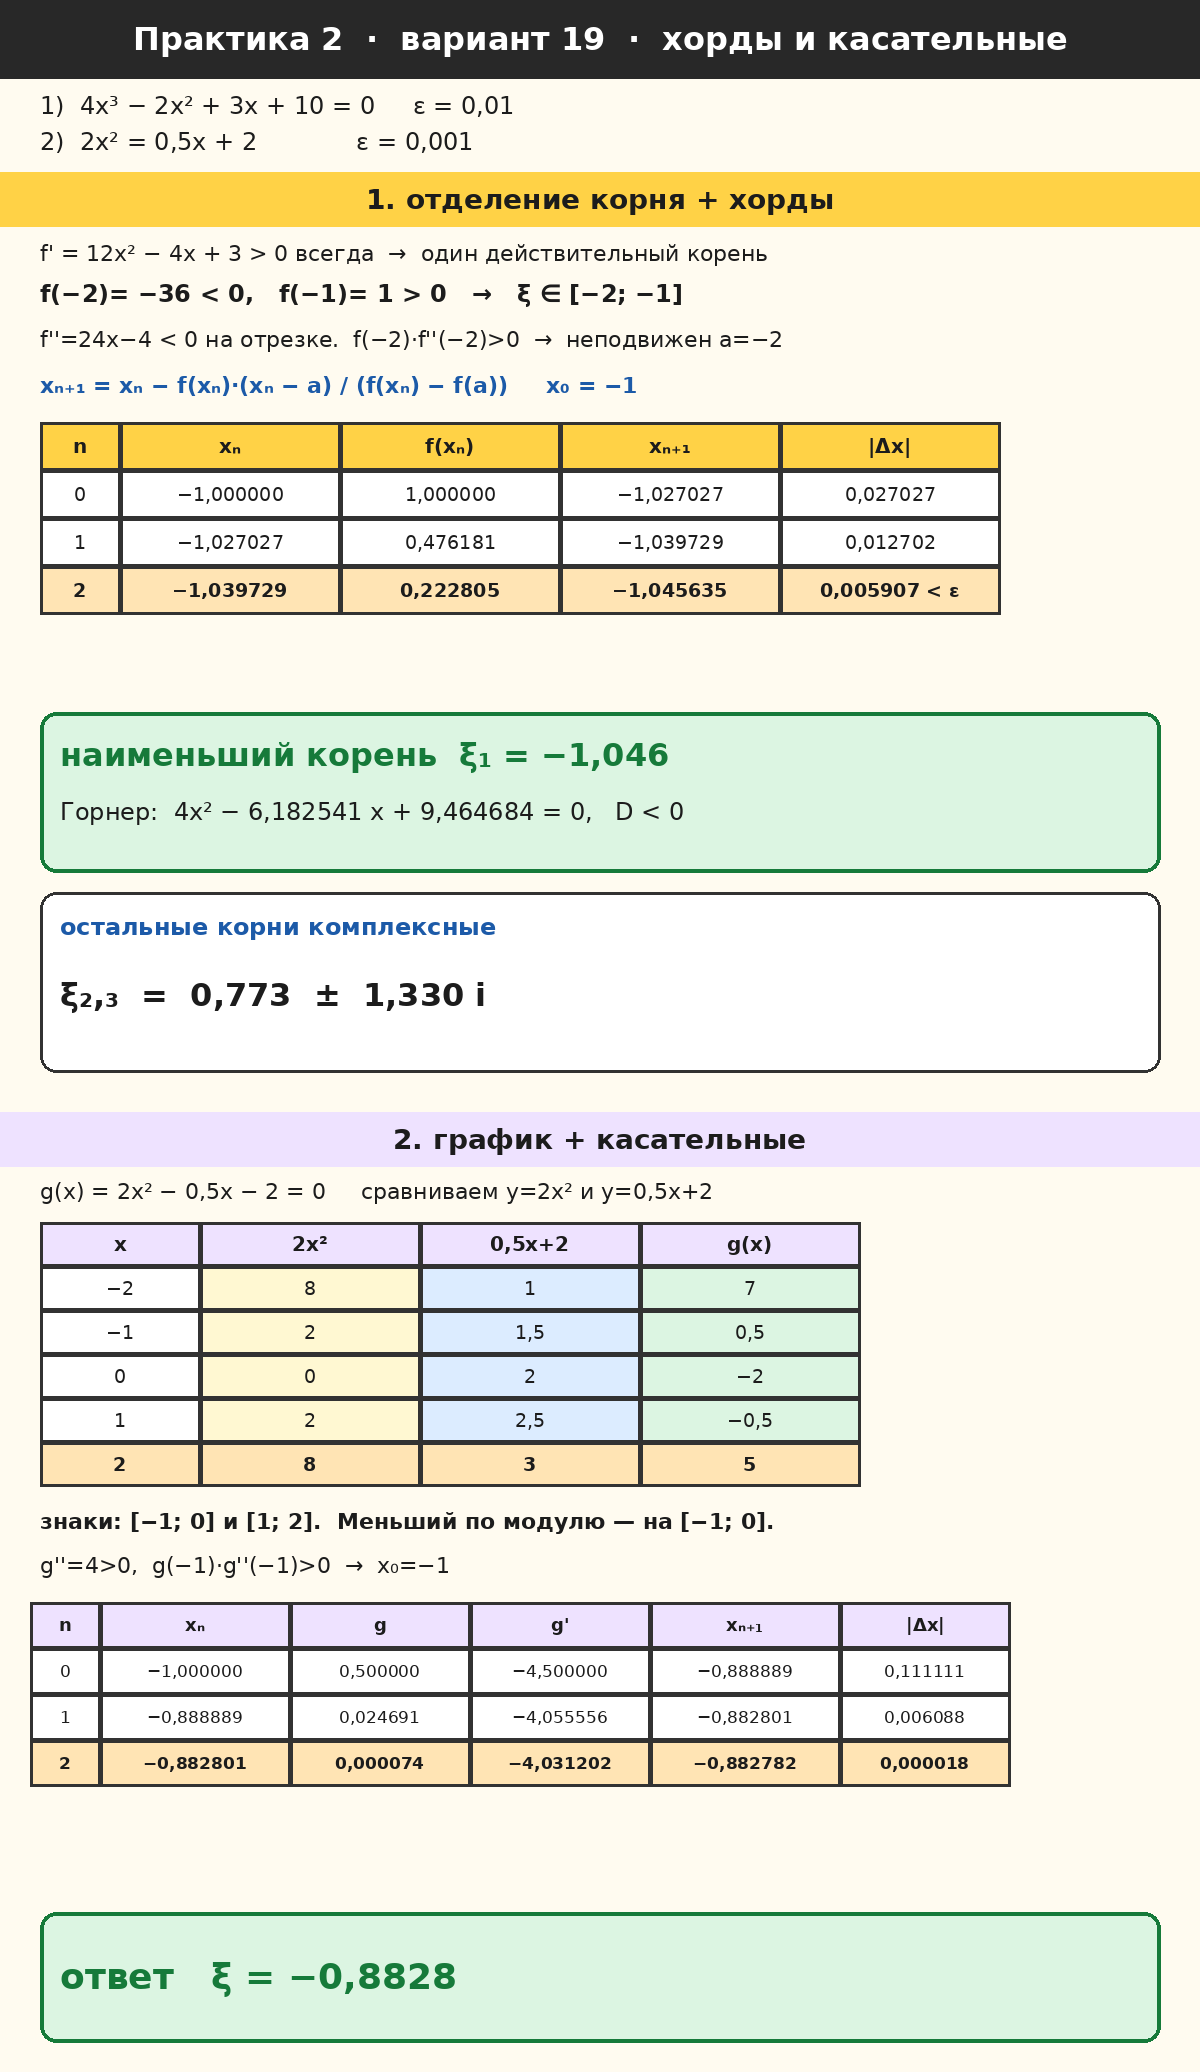
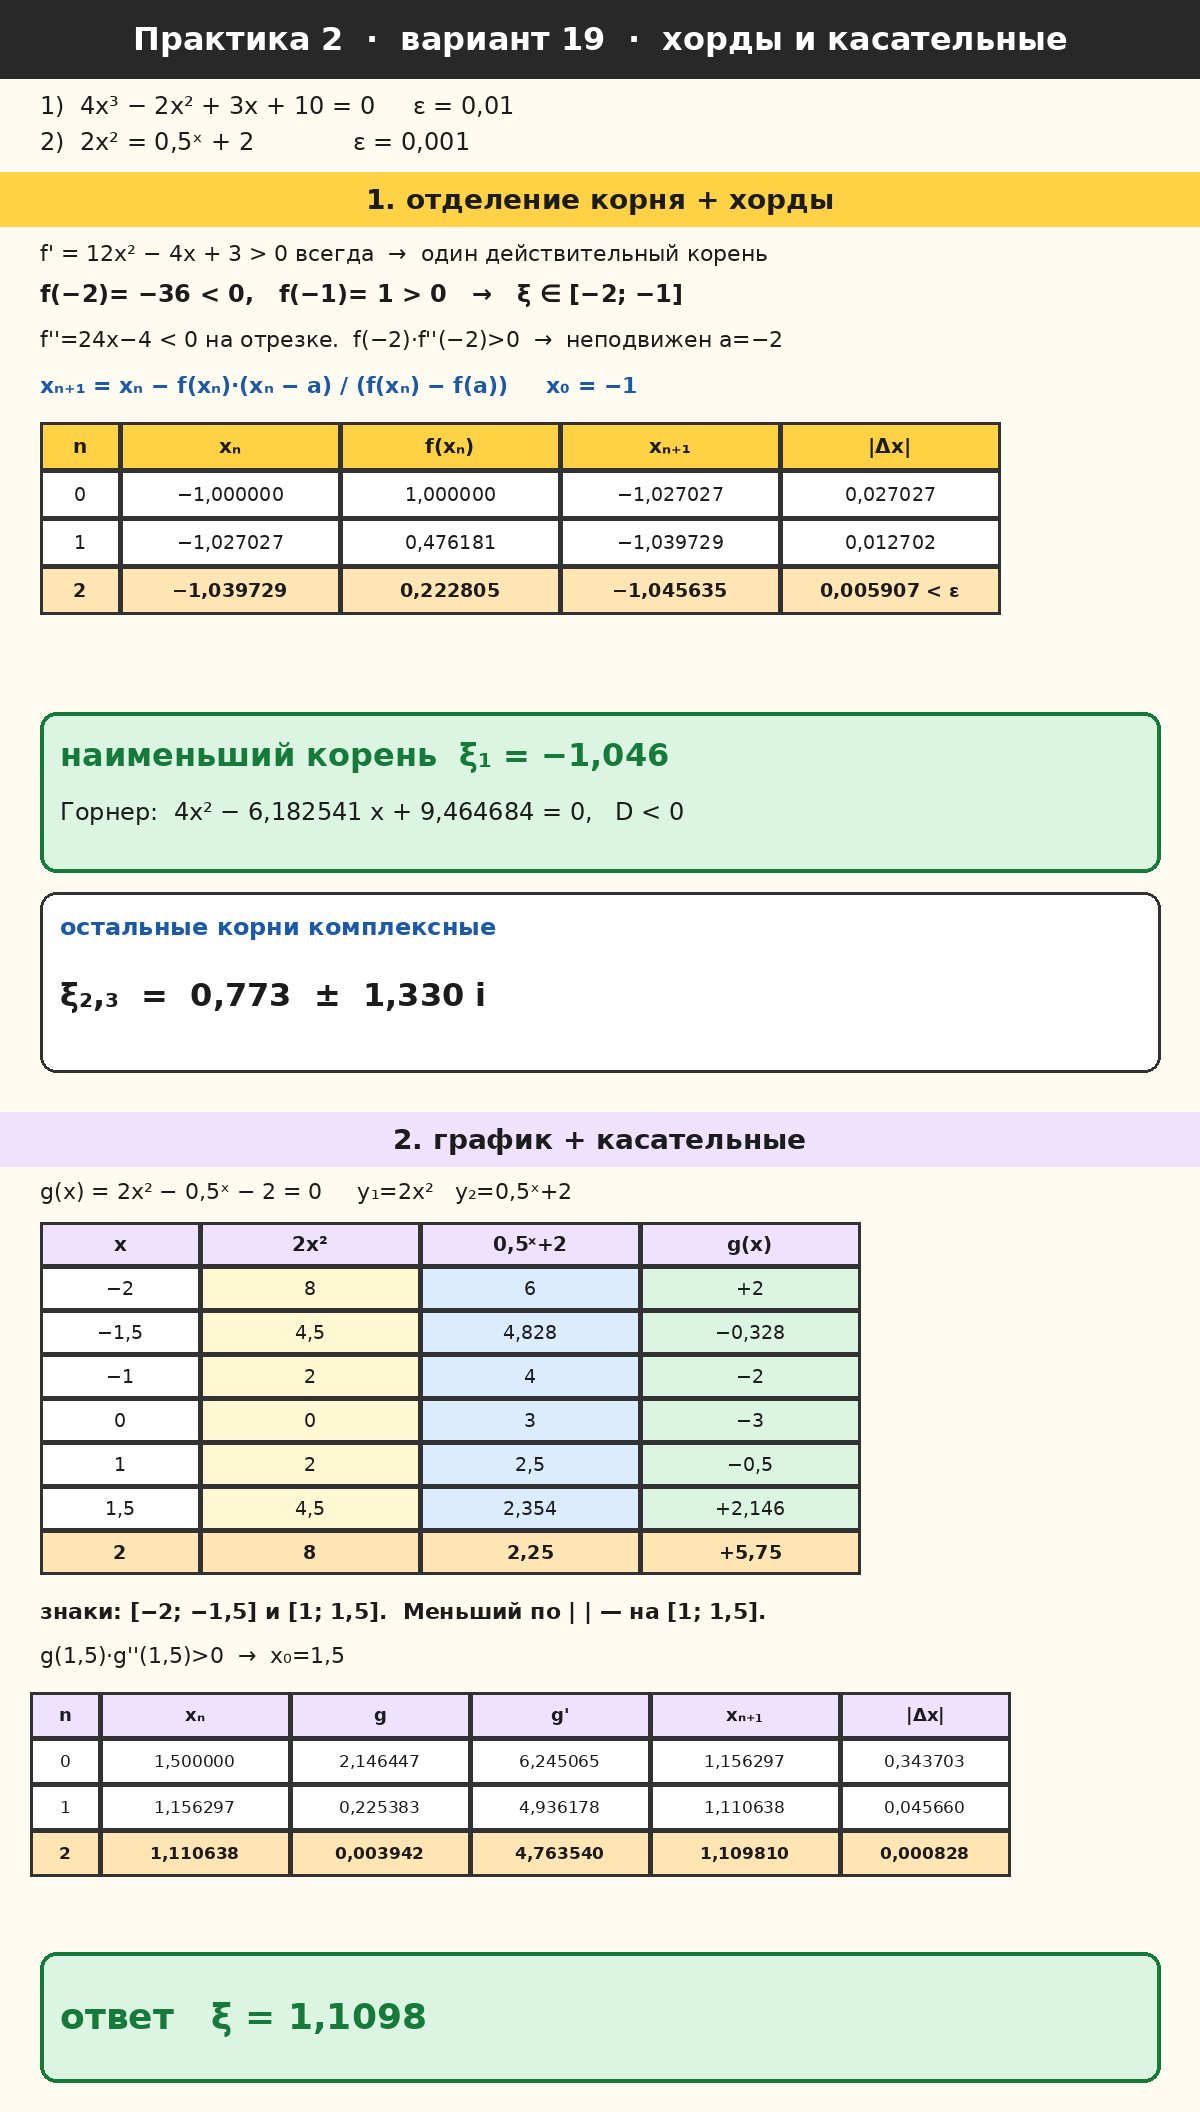
Fix practical 2 task 2: equation is 2x² = 0.5^x + 2.
Isolate on [1; 1.5], Newton from x0=1.5, ξ=1.1098.

Changed region(s): [[0.0, 0.3398, 1.0, 0.8958], [0.0308, 0.0309, 0.8325, 0.3089], [0.2467, 0.9266, 0.37, 0.9884]]

diff --git a/ucheba/praktiki_v19/render_pr2_tetrad.py b/ucheba/praktiki_v19/render_pr2_tetrad.py
@@ -86,21 +86,27 @@ def table(d, row, col_w, headers, rows, fsize=18, head=YELLOW):
 
 
 def graph_task2(path):
-    xs = np.linspace(-2.3, 2.5, 400)
+    xs = np.linspace(-2.3, 2.5, 500)
     fig, ax = plt.subplots(figsize=(5.6, 3.6), dpi=130)
     fig.patch.set_facecolor("#fcfcf4")
     ax.set_facecolor("#fffef8")
     ax.axhline(0, color="#222", lw=1.1)
     ax.axvline(0, color="#222", lw=1.0)
     ax.plot(xs, 2 * xs**2, color="#1c5aa8", lw=2.3, label="y = 2x²")
-    ax.plot(xs, 0.5 * xs + 2, color="#c42828", lw=2.3, label="y = 0,5x+2")
-    ax.plot([-0.8828], [1.5586], "o", color="#167a3a", ms=8)
-    ax.plot([1.1328], [2.5664], "o", color="#777", ms=6)
-    ax.annotate("ξ", xy=(-0.8828, 1.5586), xytext=(-2.05, 4.8),
-                fontproperties=fpb, fontsize=12, color="#167a3a",
-                arrowprops=dict(arrowstyle="->", color="#167a3a"))
+    ax.plot(xs, 0.5**xs + 2, color="#c42828", lw=2.3, label="y = 0,5ˣ + 2")
+    ax.plot([1.1098], [2.4633], "o", color="#167a3a", ms=8)
+    ax.plot([-1.5793], [4.988], "o", color="#777", ms=6)
+    ax.annotate(
+        "ξ",
+        xy=(1.1098, 2.4633),
+        xytext=(1.55, 6.2),
+        fontproperties=fpb,
+        fontsize=12,
+        color="#167a3a",
+        arrowprops=dict(arrowstyle="->", color="#167a3a"),
+    )
     ax.set_xlim(-2.3, 2.5)
-    ax.set_ylim(-0.3, 8)
+    ax.set_ylim(-0.2, 9)
     ax.grid(True, ls="--", alpha=0.35)
     ax.legend(prop=fp, loc="upper right", fontsize=9)
     ax.set_title("касательные", fontproperties=fp, fontsize=11)
@@ -203,48 +209,53 @@ def sheet_z2():
     gim = Image.open(gpath).convert("RGB")
     gim = gim.resize((480, int(480 * gim.height / gim.width)), Image.Resampling.LANCZOS)
 
-    im, d = notebook(40)
+    im, d = notebook(48)
     write(d, 1, "Задание 2:", 24, BLUE, True)
     write(d, 2, "Отделить графически корни. Уточнить наименьший по модулю", 20)
     write(d, 3, "корень уравнения методом касательных с точностью ε.", 20)
-    write(d, 4, "2x² = 0,5x + 2          ε = 0,001", 24, bold=True)
+    write(d, 4, "2x² = 0,5ˣ + 2          ε = 0,001", 24, bold=True)
+    write(d, 5, "это  0,5 в степени x,   не  0,5·x", 20, BLUE)
 
-    write(d, 6, "g(x) = 2x² − 0,5x − 2 = 0", 22, bold=True)
-    write(d, 7, "y₁ = 2x²          y₂ = 0,5x + 2", 22)
-    write(d, 8, "g'(x) = 4x − 0,5          g''(x) = 4", 22)
+    write(d, 7, "g(x) = 2x² − 0,5ˣ − 2 = 0", 22, bold=True)
+    write(d, 8, "y₁ = 2x²          y₂ = 0,5ˣ + 2", 22)
+    write(d, 9, "ln 0,5 = −ln 2 = −0,693147", 20)
+    write(d, 10, "g'(x) = 4x − 0,5ˣ·ln 0,5  =  4x + 0,693147·0,5ˣ", 20)
+    write(d, 11, "g''(x) = 4 − (ln 2)²·0,5ˣ  =  4 − 0,480453·0,5ˣ", 20)
 
-    write(d, 10, "точки для графика", 20, BLUE, True)
+    write(d, 13, "точки для графика", 20, BLUE, True)
     table(
-        d, 11,
-        [120, 140, 160, 140],
-        ["x", "2x²", "0,5x+2", "g(x)"],
+        d, 14,
+        [110, 130, 160, 140],
+        ["x", "2x²", "0,5ˣ+2", "g(x)"],
         [
-            ["−2", "8", "1", "7"],
-            ["−1", "2", "1,5", "0,5"],
-            ["0", "0", "2", "−2"],
+            ["−2", "8", "6", "+2"],
+            ["−1,5", "4,5", "4,828", "−0,328"],
+            ["−1", "2", "4", "−2"],
+            ["0", "0", "3", "−3"],
             ["1", "2", "2,5", "−0,5"],
-            ["2", "8", "3", "5"],
+            ["1,5", "4,5", "2,354", "+2,146"],
+            ["2", "8", "2,25", "+5,75"],
+        ],
+        fsize=16,
+    )
+    im.paste(gim, (680, 12 * STEP))
+    write(d, 23, "ξ ∈ [−2; −1,5]   и   ξ ∈ [1; 1,5]", 21)
+    write(d, 24, "меньший по | |  на  [1; 1,5]", 22, GREEN, True)
+
+    write(d, 26, "таблица на концах [1; 1,5]", 21, BLUE, True)
+    r = table(
+        d, 27,
+        [180, 220, 220],
+        ["", "a = 1", "b = 1,5"],
+        [
+            ["g", "−0,500000", "+2,146447"],
+            ["g'", "+4,346574", "+6,245065"],
+            ["g''", "+3,759773", "+3,830134"],
+            ["g · g''", "−  < 0", "+  > 0"],
         ],
         fsize=17,
     )
-    im.paste(gim, (670, 9 * STEP))
-    write(d, 18, "ξ ∈ [−1; 0]   и   ξ ∈ [1; 2]", 21)
-    write(d, 19, "меньший по | |  на  [−1; 0]", 22, GREEN, True)
-
-    write(d, 21, "таблица на концах [−1; 0]", 21, BLUE, True)
-    r = table(
-        d, 22,
-        [180, 220, 220],
-        ["", "a = −1", "b = 0"],
-        [
-            ["g", "+0,5", "−2"],
-            ["g'", "−4,5", "−0,5"],
-            ["g''", "+4", "+4"],
-            ["g · g''", "+  > 0", "−  < 0"],
-        ],
-        fsize=18,
-    )
-    write(d, r + 1, "g(a)·g''(a) > 0  →  x₀ = a = −1", 21, GREEN, True)
+    write(d, r + 1, "g(b)·g''(b) > 0  →  x₀ = b = 1,5", 21, GREEN, True)
     write(d, r + 2, "xₙ₊₁ = xₙ − g(xₙ)/g'(xₙ)", 21, bold=True)
 
     r = table(
@@ -252,14 +263,14 @@ def sheet_z2():
         [90, 210, 210, 210, 200],
         ["n", "x", "g(x)", "g'(x)", "Δx"],
         [
-            ["0", "−1,000000", "0,500000", "−4,500000", "+0,111111"],
-            ["1", "−0,888889", "0,024691", "−4,055556", "+0,006088"],
-            ["2", "−0,882801", "0,000074", "−4,031202", "+0,000018"],
+            ["0", "1,500000", "2,146447", "6,245065", "−0,343703"],
+            ["1", "1,156297", "0,225383", "4,936178", "−0,045660"],
+            ["2", "1,110638", "0,003942", "4,763540", "−0,000828"],
         ],
         fsize=17,
     )
-    write(d, r + 1, "|Δx| = 0,000018 ≤ 0,001  →  стоп", 21)
-    write(d, r + 2, "ξ = −0,8828", 26, GREEN, True)
+    write(d, r + 1, "|Δx| = 0,000828 ≤ 0,001  →  стоп", 21)
+    write(d, r + 2, "ξ = 1,1098", 26, GREEN, True)
     gpath.unlink(missing_ok=True)
     return im.crop((0, 0, W, (r + 4) * STEP))
 

diff --git a/ucheba/praktiki_v19/render_paint.py b/ucheba/praktiki_v19/render_paint.py
@@ -155,7 +155,7 @@ def sheet_pr2():
             "Практика 2  ·  вариант 19  ·  хорды и касательные",
             [
                 "1)  4x³ − 2x² + 3x + 10 = 0     ε = 0,01",
-                "2)  2x² = 0,5x + 2             ε = 0,001",
+                "2)  2x² = 0,5ˣ + 2             ε = 0,001",
             ],
         )
     ]
@@ -187,37 +187,39 @@ def sheet_pr2():
     txt(d, (60, 290), "ξ₂,₃  =  0,773  ±  1,330 i", 32, bold=True)
     parts.append(im)
 
-    im = new_im(780)
+    im = new_im(820)
     d = ImageDraw.Draw(im)
     d.rectangle([0, 0, W, 54], fill=PAPER_P)
     txt(d, (W / 2, 27), "2. график + касательные", 28, bold=True, anchor="mm")
-    txt(d, (40, 70), "g(x) = 2x² − 0,5x − 2 = 0     сравниваем y=2x² и y=0,5x+2", 22)
-    headers = ["x", "2x²", "0,5x+2", "g(x)"]
+    txt(d, (40, 70), "g(x) = 2x² − 0,5ˣ − 2 = 0     y₁=2x²   y₂=0,5ˣ+2", 22)
+    headers = ["x", "2x²", "0,5ˣ+2", "g(x)"]
     col_w = [160, 220, 220, 220]
     rows = [
-        ["−2", "8", "1", "7"],
-        ["−1", "2", "1,5", "0,5"],
-        ["0", "0", "2", "−2"],
+        ["−2", "8", "6", "+2"],
+        ["−1,5", "4,5", "4,828", "−0,328"],
+        ["−1", "2", "4", "−2"],
+        ["0", "0", "3", "−3"],
         ["1", "2", "2,5", "−0,5"],
-        ["2", "8", "3", "5"],
+        ["1,5", "4,5", "2,354", "+2,146"],
+        ["2", "8", "2,25", "+5,75"],
     ]
     table(d, (40, 110), col_w, 44, headers, rows, [WHITE, PAPER_Y, PAPER_B, PAPER_G], head=PAPER_P, fsize=20)
-    txt(d, (40, 400), "знаки: [−1; 0] и [1; 2].  Меньший по модулю — на [−1; 0].", 22, bold=True)
-    txt(d, (40, 444), "g''=4>0,  g(−1)·g''(−1)>0  →  x₀=−1", 22)
+    txt(d, (40, 490), "знаки: [−2; −1,5] и [1; 1,5].  Меньший по | | — на [1; 1,5].", 22, bold=True)
+    txt(d, (40, 534), "g(1,5)·g''(1,5)>0  →  x₀=1,5", 22)
     headers = ["n", "xₙ", "g", "g'", "xₙ₊₁", "|Δx|"]
     col_w = [70, 190, 180, 180, 190, 170]
     rows = [
-        ["0", "−1,000000", "0,500000", "−4,500000", "−0,888889", "0,111111"],
-        ["1", "−0,888889", "0,024691", "−4,055556", "−0,882801", "0,006088"],
-        ["2", "−0,882801", "0,000074", "−4,031202", "−0,882782", "0,000018"],
+        ["0", "1,500000", "2,146447", "6,245065", "1,156297", "0,343703"],
+        ["1", "1,156297", "0,225383", "4,936178", "1,110638", "0,045660"],
+        ["2", "1,110638", "0,003942", "4,763540", "1,109810", "0,000828"],
     ]
-    table(d, (30, 490), col_w, 46, headers, rows, [WHITE] * 6, head=PAPER_P, fsize=18)
+    table(d, (30, 580), col_w, 46, headers, rows, [WHITE] * 6, head=PAPER_P, fsize=18)
     parts.append(im)
 
     im = new_im(180)
     d = ImageDraw.Draw(im)
     d.rounded_rectangle([40, 20, 1160, 150], radius=16, fill=PAPER_G, outline=GREEN, width=4)
-    txt(d, (60, 70), "ответ   ξ = −0,8828", 36, GREEN, True)
+    txt(d, (60, 70), "ответ   ξ = 1,1098", 36, GREEN, True)
     parts.append(im)
     return stack(parts)
 

diff --git a/ucheba/praktiki_v19/VARIANT_19.md b/ucheba/praktiki_v19/VARIANT_19.md
@@ -150,40 +150,45 @@ D=-113{,}21<0.
 
 ## Задание 2
 
+В бланке \(0{,}5^x\), не \(0{,}5x\):
+
 \[
-2x^2=0{,}5x+2\qquad\Leftrightarrow\qquad
-g(x)=2x^2-0{,}5x-2=0,\qquad \varepsilon=0{,}001.
+2x^2=0{,}5^x+2\qquad\Leftrightarrow\qquad
+g(x)=2x^2-0{,}5^x-2=0,\qquad \varepsilon=0{,}001.
 \]
 
 **Графическое отделение.**  
-\(y=2x^2\) и \(y=0{,}5x+2\).
+\(y=2x^2\) и \(y=0{,}5^x+2\).
 
-| x | 2x² | 0,5x+2 | g(x) |
+| x | 2x² | \(0{,}5^x+2\) | g(x) |
 |---|-----|--------|------|
-| −2 | 8 | 1 | 7 |
-| −1 | 2 | 1,5 | 0,5 |
-| 0 | 0 | 2 | −2 |
+| −2 | 8 | 6 | +2 |
+| −1,5 | 4,5 | 4,828 | −0,328 |
+| −1 | 2 | 4 | −2 |
+| 0 | 0 | 3 | −3 |
 | 1 | 2 | 2,5 | −0,5 |
-| 2 | 8 | 3 | 5 |
+| 1,5 | 4,5 | 2,354 | +2,146 |
+| 2 | 8 | 2,25 | +5,75 |
 
-Смена знака: \([-1;0]\) и \([1;2]\).  
-Наименьший по модулю — на \([-1;0]\).
+Смена знака: \([-2;-1{,}5]\) и \([1;1{,}5]\).  
+Наименьший по модулю — на \([1;1{,}5]\).
 
 **Касательные.**  
-\(g'=4x-0{,}5\), \(g''=4>0\).  
-\(g(-1)\cdot g''(-1)>0\) ⇒ \(x_0=-1\).
+\(g'(x)=4x-0{,}5^x\ln 0{,}5=4x+\ln 2\cdot 0{,}5^x\),  
+\(g''(x)=4-(\ln 2)^2\cdot 0{,}5^x>0\).  
+\(g(1{,}5)\cdot g''(1{,}5)>0\) ⇒ \(x_0=1{,}5\).
 
 \[
 x_{n+1}=x_n-\frac{g(x_n)}{g'(x_n)}.
 \]
 
-| n | \(x_n\) | \(g(x_n)\) | \(g'(x_n)\) | \(x_{n+1}\) | \(\lvert\Delta x\rvert\) |
-|---|---------|------------|-------------|-------------|--------------------------|
-| 0 | −1,000000 | 0,500000 | −4,500000 | −0,888889 | 0,111111 |
-| 1 | −0,888889 | 0,024691 | −4,055556 | −0,882801 | 0,006088 |
-| 2 | −0,882801 | 0,000074 | −4,031202 | −0,882782 | 0,000018 < ε |
+| n | \(x_n\) | \(g(x_n)\) | \(g'(x_n)\) | \(\Delta x\) |
+|---|---------|------------|-------------|--------------|
+| 0 | 1,500000 | 2,146447 | 6,245065 | −0,343703 |
+| 1 | 1,156297 | 0,225383 | 4,936178 | −0,045660 |
+| 2 | 1,110638 | 0,003942 | 4,763540 | −0,000828 < ε |
 
-**Ответ:** \(\xi=-0{,}8828\).
+**Ответ:** \(\xi=1{,}1098\).
 
 ---
 
@@ -282,6 +287,6 @@ I=\frac{0{,}05}{3}\cdot 24{,}476159=0{,}407936.
 | 1 | 1 | \(X=2{,}50\pm 0{,}07\) |
 | 1 | 2 | \(X=-18{,}92\pm 0{,}36\) |
 | 2 | 1 | \(\xi_1=-1{,}046\); \(\xi_{2,3}=0{,}773\pm 1{,}330 i\) |
-| 2 | 2 | \(\xi=-0{,}8828\) |
+| 2 | 2 | \(\xi=1{,}1098\) |
 | 5 | 1 | \(I\approx 0{,}23756\) |
 | 5 | 2 | \(I\approx 0{,}40794\) |
